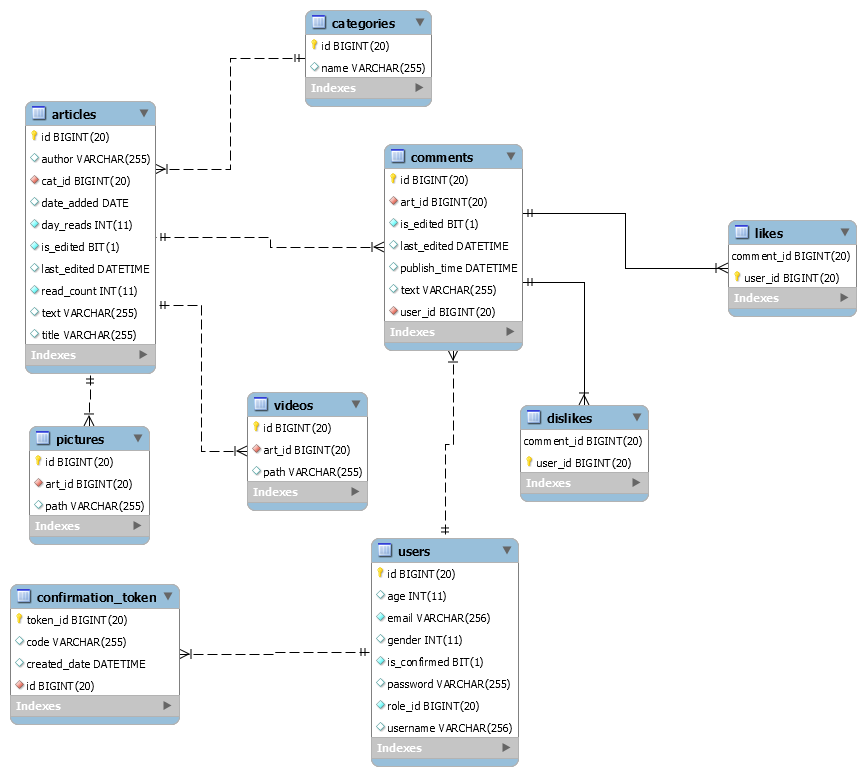
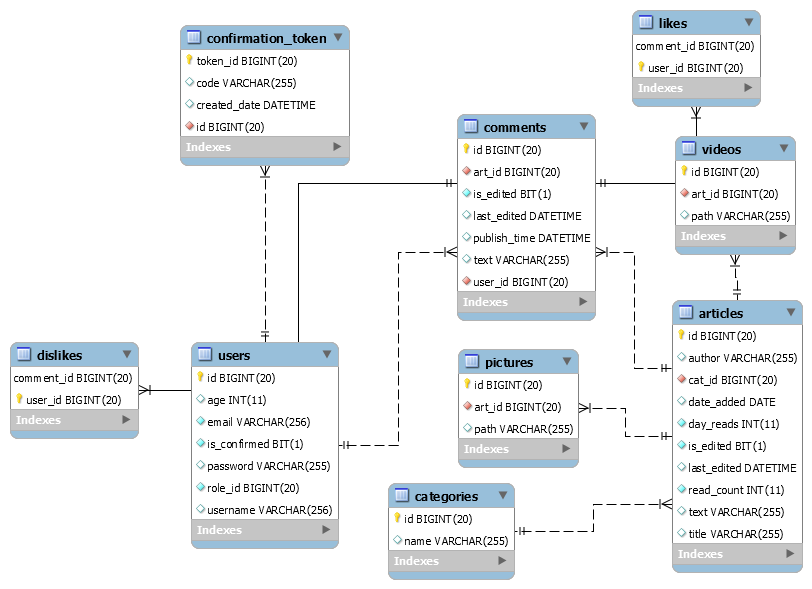
deleting img and video now returns response msg, updated DB diagram and fixed pass edit and email regex

Changed region(s): [[0.0, 0.0, 1.0, 1.0], [0.8005, 0.489, 1.0, 0.9779], [0.8005, 0.6112, 0.8313, 0.6418]]

diff --git a/src/main/java/ittalents/webappsports/controllers/UserController.java b/src/main/java/ittalents/webappsports/controllers/UserController.java
@@ -8,8 +8,10 @@ import ittalents.webappsports.models.User;
 import ittalents.webappsports.repositories.ConfirmationTokenRep;
 import ittalents.webappsports.repositories.UserRepository;
 import ittalents.webappsports.util.EmailSender;
+import ittalents.webappsports.util.MsgResponse;
 import org.apache.log4j.Logger;
 import org.springframework.beans.factory.annotation.Autowired;
+import org.springframework.http.HttpStatus;
 import org.springframework.jdbc.core.JdbcTemplate;
 import org.springframework.security.crypto.bcrypt.BCryptPasswordEncoder;
 import org.springframework.web.bind.annotation.*;
@@ -26,8 +28,10 @@ import static ittalents.webappsports.util.userAuthorities.verifiedAcc;
 
 @RestController
 public class UserController extends SportalController{
-    private static final String PASS_REGEX = "((?=.*[a-z])(?=.*d)(?=.*[@#$%!?^&*-])(?=.*[A-Z]).{6,20})";
-    private static final String EMAIL_REGEX = "^([\\w-\\.]+){1,64}@([\\w&&[^_]]+){2,255}.[a-z]{2,}$";
+    private static final String PASS_REGEX = "((?=.*[a-z])(?=.*d)(?=.*[@#$%!?^&*-_])(?=.*[A-Z]).{6,20})";
+    private static final String EMAIL_REGEX =
+            "[a-z0-9!#$%&'*+/=?^_`{|}~-]+(?:.[a-z0-9!#$%&'*+/=?^_`{|}~-]+)*@(?:[a-z0-9]" +
+            "(?:[a-z0-9-]*[a-z0-9])?.)+[a-z0-9](?:[a-z0-9-]*[a-z0-9])?";
 
     private static final String VERIFICATION_URL = "http://localhost:8080/confirm-account-code=";
 
@@ -48,6 +52,7 @@ public class UserController extends SportalController{
     @PostMapping("/register")
     public UserDTO registerUser(@RequestBody User user) throws UserException, BadRequestException {
         verifyGivenData(user);
+        verifyPassword(user.getPassword());
         emailExist(user.getEmail());
         usernameExist(user.getUsername());
         user.setPassword(encoder.encode(user.getPassword()));
@@ -74,17 +79,19 @@ public class UserController extends SportalController{
         if(user.getPassword() == null){
             throw new BadRequestException("You need to enter a password");
         }
-        if(!user.getPassword().matches(PASS_REGEX)) {
-            throw new BadRequestException("password must be at least 6 characters long," +
-                    " have at least one digit," +
-                    " a lower case letter ," +
-                    "an upper case letter and a special character");
-        }
         if(user.getUsername() == null){
             throw new BadRequestException("You need to input username");
         }
         if(!user.getPassword().equals(user.getConfirmPassword())){
             throw new BadRequestException("passwords do not match");
+        }
+    }
+    public void verifyPassword(String password) throws BadRequestException {
+        if(!password.matches(PASS_REGEX)) {
+            throw new BadRequestException("password must be at least 6 characters long," +
+                    " have at least one digit," +
+                    " a lower case letter ," +
+                    "an upper case letter and a special character");
         }
     }
     private void sendVerificationEmail(User user, ConfirmationToken confirmationToken){
@@ -155,14 +162,16 @@ public class UserController extends SportalController{
 
     //logout from session
     @PostMapping("/logout")
-    public void logout(HttpSession session){
+    public MsgResponse logout(HttpSession session){
         session.invalidate();
+        return new MsgResponse(HttpStatus.OK.value(),"logout successful");
     }
 
     //edit password on logged user
     @PutMapping("/user/edit/password")
-    public UserDTO changePassword(@RequestBody User user, HttpSession session) throws UserException, SQLException,NotFoundException {
+    public UserDTO changePassword(@RequestBody User user, HttpSession session) throws UserException , NotFoundException, BadRequestException {
         User userFromDB = getUserFromSession(session);
+        verifyPassword(user.getPassword());
         userFromDB.setPassword(encoder.encode(user.getPassword()));
         userRepository.save(userFromDB);
         return new UserDTO().convertToDTO(userFromDB);

diff --git a/src/main/java/ittalents/webappsports/controllers/ImageController.java b/src/main/java/ittalents/webappsports/controllers/ImageController.java
@@ -1,8 +1,7 @@
 package ittalents.webappsports.controllers;
 
-import ittalents.webappsports.dto.ImageUploadDTO;
+import ittalents.webappsports.dto.ImageDTO;
 import ittalents.webappsports.exceptions.BadRequestException;
-import ittalents.webappsports.exceptions.MediaException;
 import ittalents.webappsports.exceptions.NotFoundException;
 import ittalents.webappsports.exceptions.UserException;
 import ittalents.webappsports.models.Article;
@@ -10,8 +9,10 @@ import ittalents.webappsports.models.Picture;
 import ittalents.webappsports.models.User;
 import ittalents.webappsports.repositories.ArticleRepository;
 import ittalents.webappsports.repositories.PictureRepository;
+import ittalents.webappsports.util.MsgResponse;
 import ittalents.webappsports.util.userAuthorities;
 import org.springframework.beans.factory.annotation.Autowired;
+import org.springframework.http.HttpStatus;
 import org.springframework.web.bind.annotation.*;
 
 import javax.servlet.http.HttpSession;
@@ -35,7 +36,7 @@ public class ImageController extends SportalController{
 
     //upload image to database and save to server
     @PostMapping("/images/upload/{artId}")
-    public Picture uploadImage(@RequestBody ImageUploadDTO dto, @PathVariable long artId, HttpSession session) throws IOException,BadRequestException, UserException {
+    public Picture uploadImage(@RequestBody ImageDTO dto, @PathVariable long artId, HttpSession session) throws IOException,BadRequestException, UserException {
 
         User admin = userAuthorities.validateAdmin(session);
 
@@ -80,9 +81,8 @@ public class ImageController extends SportalController{
 
 
     //delete picture
-    @Transactional
     @DeleteMapping("/image/{id}")
-    public void deletePicture(@PathVariable("id") long id, HttpSession session) throws UserException,NotFoundException,MediaException {
+    public MsgResponse deletePicture(@PathVariable("id") long id, HttpSession session) throws UserException,NotFoundException {
         userAuthorities.validateAdmin(session);
         Picture picture;
         Optional<Picture> pictureOptional = pr.findById(id);
@@ -92,6 +92,7 @@ public class ImageController extends SportalController{
         picture = pictureOptional.get();
 
         pr.delete(picture);
+        return new MsgResponse(HttpStatus.OK.value(),"image deleted successfully");
 
 //        File file = new File(picture.getPath() + ".png");
 //            if(file.delete()){

diff --git a/src/main/java/ittalents/webappsports/controllers/VideoController.java b/src/main/java/ittalents/webappsports/controllers/VideoController.java
@@ -8,8 +8,10 @@ import ittalents.webappsports.models.User;
 import ittalents.webappsports.models.Video;
 import ittalents.webappsports.repositories.ArticleRepository;
 import ittalents.webappsports.repositories.VideoRepository;
+import ittalents.webappsports.util.MsgResponse;
 import ittalents.webappsports.util.userAuthorities;
 import org.springframework.beans.factory.annotation.Autowired;
+import org.springframework.http.HttpStatus;
 import org.springframework.web.bind.annotation.*;
 import org.springframework.web.multipart.MultipartFile;
 
@@ -57,12 +59,14 @@ public class VideoController extends SportalController{
 
     //delete video
     @DeleteMapping("/videos/delete/{id}")
-    public void deleteVideo(@PathVariable("id") long id, HttpSession session) throws UserException, NotFoundException {
+    public MsgResponse deleteVideo(@PathVariable("id") long id, HttpSession session) throws UserException, NotFoundException {
         userAuthorities.validateAdmin(session);
 
         Video video = getVideoFromDB(id);
 
         videoRepository.delete(video);
+
+        return new MsgResponse(HttpStatus.OK.value(), "video deleted successfully");
 
 //        File file = new File(video.getPath() + ".mpg");
 //        if(file.delete()){

diff --git a/src/main/java/ittalents/webappsports/dto/ImageDTO.java b/src/main/java/ittalents/webappsports/dto/ImageDTO.java
@@ -9,7 +9,7 @@ import org.springframework.stereotype.Component;
 @Setter
 @Getter
 @Component
-public class ImageUploadDTO {
+public class ImageDTO {
 
     private String fileStr;
 }
